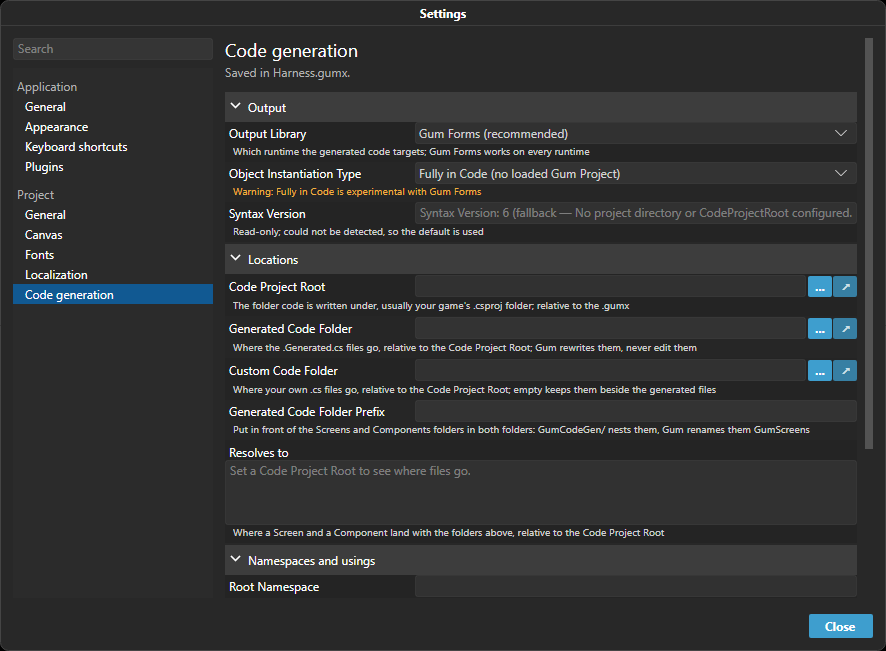
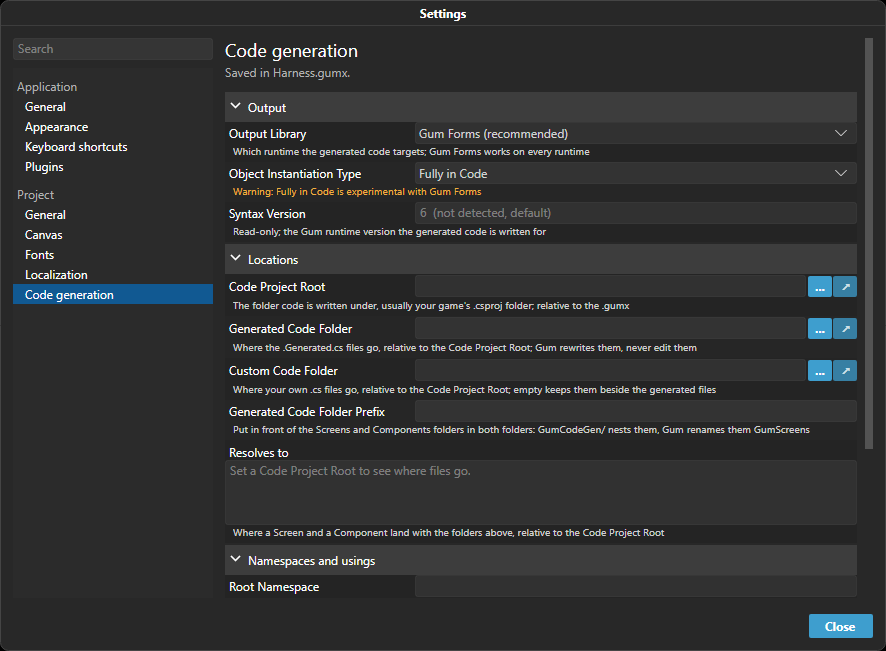
Settings page: shots for every section, warning callout test, refreshed images

Changed region(s): [[0.3047, 0.3072, 0.9752, 0.3687], [0.5485, 0.2458, 0.7009, 0.2765]]

diff --git a/Tests/Gum.Avalonia.Tests/Screenshots/SettingsWindowScreenshotTests.cs b/Tests/Gum.Avalonia.Tests/Screenshots/SettingsWindowScreenshotTests.cs
@@ -1,4 +1,12 @@
+using Avalonia.Controls;
 using Avalonia.Styling;
+using Avalonia.Threading;
+using Avalonia.VisualTree;
+using CodeOutputPlugin;
+using Gum.Avalonia.Settings;
+using Gum.ProjectServices.CodeGeneration;
+using System.Linq;
+using System.Reflection;
 using Gum.Avalonia.Tests.EndToEnd;
 using Gum.Avalonia.Tests.Harness;
 using Gum.SettingsWindow;
@@ -63,6 +71,48 @@ public class SettingsWindowScreenshotTests
         viewModel.SelectPage(SettingsPageIds.CodeGeneration);
         window.Save("settings-project-code-generation-light");
     });
+
+    [SkippableFact]
+    public void CodeGeneration_ScrolledToTheEnd_Dark() => PrScreenshot.Run(() =>
+    {
+        using ProjectTreeHarness tree = new ProjectTreeHarness();
+        SettingsDialogViewModel viewModel = TestAppBuilder.Services.GetRequiredService<SettingsDialogViewModel>();
+        using ScreenshotWindow window = PrScreenshot.ShowDialog(viewModel, ThemeVariant.Dark);
+
+        viewModel.SelectPage(SettingsPageIds.CodeGeneration);
+        ScrollToEnd(window);
+        PrScreenshot.SaveWindowAtZoomLevels(window.Window, "settings-project-code-generation-end");
+    });
+
+    [SkippableFact]
+    public void CodeGeneration_LegacyLibrary_ShowsTheCollapsedAndExpandedLegacySection() => PrScreenshot.Run(() =>
+    {
+        using ProjectTreeHarness tree = new ProjectTreeHarness();
+        SettingsDialogViewModel viewModel = TestAppBuilder.Services.GetRequiredService<SettingsDialogViewModel>();
+        using ScreenshotWindow window = PrScreenshot.ShowDialog(viewModel, ThemeVariant.Dark);
+        viewModel.SelectPage(SettingsPageIds.CodeGeneration);
+
+        // The legacy rows exist only for a legacy library, which the project does not use by default.
+        CodeGenerationSettingsPageView page = window.Find<CodeGenerationSettingsPageView>();
+        CodeGenerationSettingsViewModel pageModel = (CodeGenerationSettingsViewModel)page.DataContext!;
+        CodeOutputSettingsMembers members = (CodeOutputSettingsMembers)typeof(CodeGenerationSettingsViewModel)
+            .GetField("_members", BindingFlags.NonPublic | BindingFlags.Instance)!.GetValue(pageModel)!;
+        members.ProjectSettings!.OutputLibrary = OutputLibrary.Maui;
+        pageModel.Reload();
+
+        ScrollToEnd(window);
+        window.Save("settings-project-code-generation-legacy-collapsed");
+        page.Grid.Categories.Last().IsExpanded = true;
+        ScrollToEnd(window);
+        window.Save("settings-project-code-generation-legacy-expanded");
+    });
+
+    private static void ScrollToEnd(ScreenshotWindow window)
+    {
+        CodeGenerationSettingsPageView page = window.Find<CodeGenerationSettingsPageView>();
+        page.GetVisualAncestors().OfType<ScrollViewer>().First().ScrollToEnd();
+        Dispatcher.UIThread.RunJobs();
+    }
 
     [SkippableFact]
     public void Search_NarrowsThePageList() => PrScreenshot.Run(() =>

diff --git a/Tests/Gum.Avalonia.Tests/DataUi/PairedRowsTests.cs b/Tests/Gum.Avalonia.Tests/DataUi/PairedRowsTests.cs
@@ -123,6 +123,29 @@ public class PairedRowsTests
     }
 
     [AvaloniaFact]
+    public void WarningDetailText_IsDrawnAsACallout_WhilePlainDetailTextKeepsTheMutedHint()
+    {
+        (DataUiGrid grid, Window window, DataUiCategoryView _) = ShowGrid("X", "Y");
+        InstanceMember x = Container(grid, "X").Member!;
+        InstanceMember y = Container(grid, "Y").Member!;
+        x.DetailText = "Plain hint";
+        y.DetailText = "Careful";
+        y.IsDetailTextWarning = true;
+        window.UpdateLayout();
+
+        TextBlock plain = Container(grid, "X").GetVisualDescendantsOfType<TextBlock>().Single(text => text.IsVisible && text.Text == "Plain hint");
+        TextBlock warning = Container(grid, "Y").GetVisualDescendantsOfType<TextBlock>().Single(text => text.IsVisible && text.Text == "Careful");
+        warning.Foreground.ShouldBeOfType<global::Avalonia.Media.SolidColorBrush>();
+        warning.Opacity.ShouldBe(1);
+        plain.Opacity.ShouldBeLessThan(1);
+
+        y.IsDetailTextWarning = false;
+        window.UpdateLayout();
+        warning.Opacity.ShouldBeLessThan(1, "turning the warning off restores the muted hint");
+        window.Close();
+    }
+
+    [AvaloniaFact]
     public void PanelTooNarrowForBothCells_StacksThePairIntoTwoRows_WithUsableFields()
     {
         (DataUiGrid grid, Window window, DataUiCategoryView _) = ShowGrid("X", "Y");
